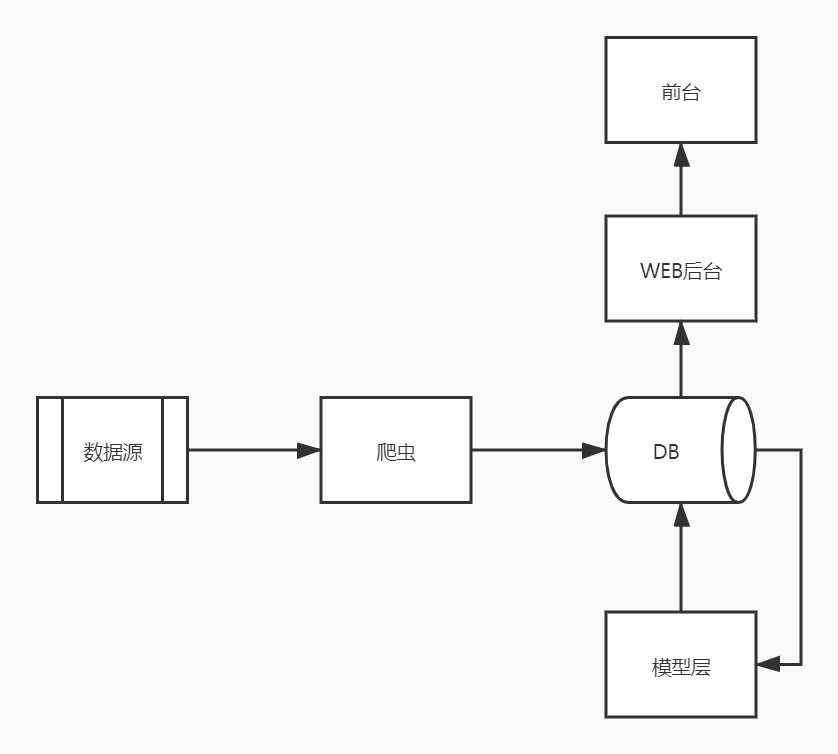
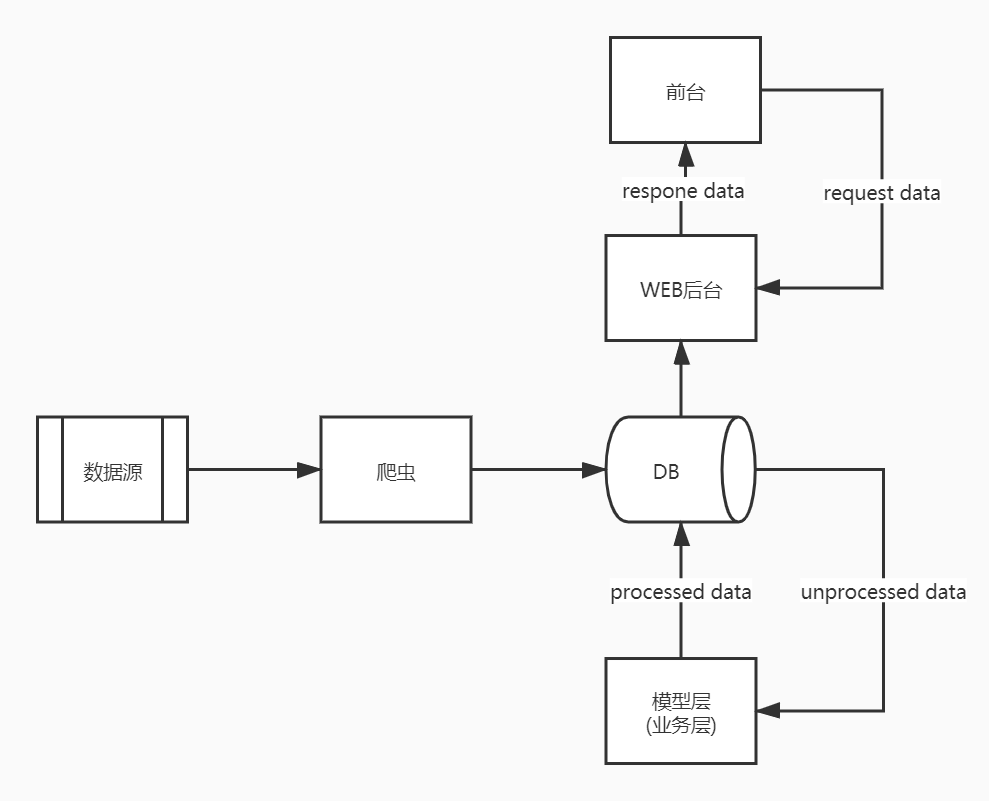
初始项目布局

Changed region(s): [[0.031, 0.0305, 0.9928, 0.9761], [0.5895, 0.8236, 0.6205, 0.9456]]

diff --git a/灾害分析.md b/灾害分析.md
@@ -4,7 +4,20 @@
 社交媒体+时空+灾害
 # 项目架构
 ![](https://github.com/liuhuijiayou/natural_disaster_doc/raw/master/img/6.jpg)
+- 数据源
+- 爬虫
+- 模型层(业务层)
+- web后台
+- 前台
+- DB
 
+<font color=red>**以DB为核心串联所有模块**</font>
+### 模型层
+- atural_disasters // 主目录
+    - task //任务目录
+        - earthquake // 地震任务目录
+            - analyse // 分析任务package，调用模型
+            - resource // 资源包package，存放一些静态资源，如模型，数据等
 
 # 信息抽取
 # 文本聚类
@@ -44,10 +57,6 @@
     - 等等
 
 # 灾害微观分析
-### 参考文章
-[社交媒体数据在自然灾害应急管理中的应用研究综述_邬柯杰](D:\file\Markdownfile\论文\社交媒体数据在自然灾害应急管理中的应用研究综述_邬柯杰.pdf)
-
----
 ### 基础信息
 - 事件概述
     - 简介
@@ -125,11 +134,7 @@ mysqldump -uroot -p social_media weibo_post -w "task_id='1_4'" > /home/web/weibo
 
 
 
- - atural_disasters // 主目录
-    - task //任务目录
-        - earthquake // 地震任务目录
-            - analyse // 分析任务package，调用模型
-            - resource // 资源包package，存放一些静态资源，如模型，数据等
+
 
 
 
